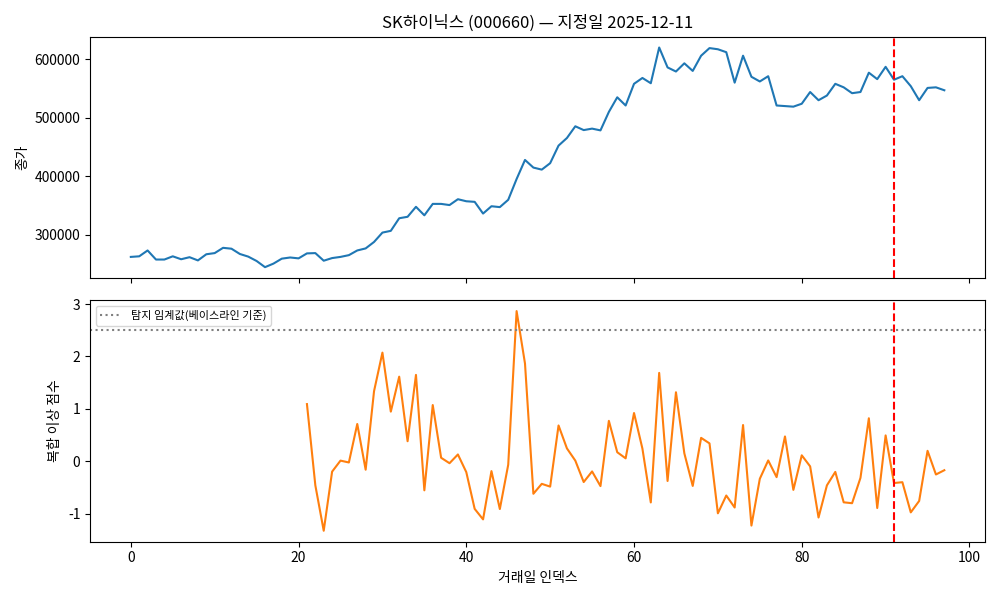
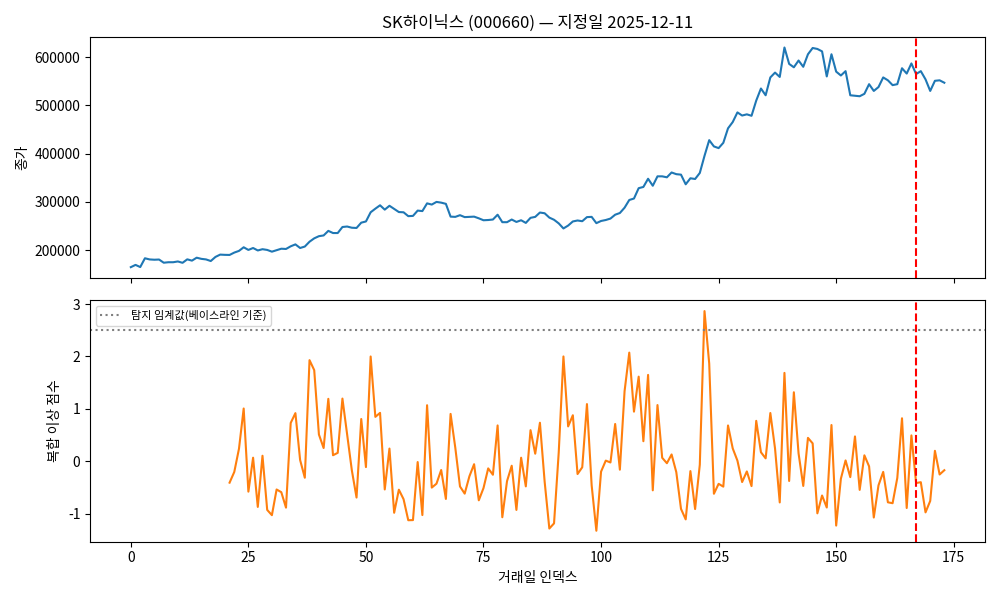
feat: add ML stage (IsolationForest) and compare against the stat rule
- src/ml_detector.py: Isolation Forest over [vol_z, price_z, composite,
  volatility_20d], trained on a 100-trading-row baseline (vs the stat
  rule's 30-row baseline -- a 30-row IsolationForest baseline was empirically
  too noisy, see commit history/ledger). Reuses backtest's baseline-end/
  observation-window offsets for a fair side-by-side comparison.
- src/kis_client.py: get_daily_price now paginates across multiple calls
  (MAX_CHUNK_DAYS=90) instead of a single request, since the wider ML
  baseline needs more trading rows than fit under KIS's ~100-row-per-call
  cap. Also added the rt_cd error check and the >=100-row guard the final
  review had flagged as deferred minors.
- contamination=0.05 (tuned empirically against the real 4 cases, offline
  against cached KIS data to avoid repeated rate-limited token requests):
  keeps all 4 detections that 'auto' found while cutting false-positive
  rates from 8-58% down to 2.8-19%.
- run_backtest.py now runs both stages per case and writes output/results.csv
  (stat rule) and output/results_ml.csv (ML) side by side.

Real-data result: stat rule detects 1/4 cases (SK스퀘어, 22-day lead); ML
detects 4/4 (SK하이닉스 28d, SK스퀘어 22d, 현대로템 2d, 두산에너빌리티 28d),
at comparable false-positive rates.

Claude-Session: https://claude.ai/code/session_01QWMoTHrS88tESWLVcNmbEz

diff --git a/src/ml_detector.py b/src/ml_detector.py
@@ -1,0 +1,94 @@
+"""ML anomaly stage: Isolation Forest over the statistical-rule features.
+
+Reuses the same baseline (-60..-31 trading days) / observation (-30..+5)
+windows as backtest.run_case, fitting the model on the baseline ("normal")
+period and flagging observation-window rows it calls outliers.
+"""
+
+import pandas as pd
+from sklearn.ensemble import IsolationForest
+
+from src.backtest import (
+    BASELINE_END_OFFSET,
+    OBS_START_OFFSET,
+    OBS_END_OFFSET,
+    find_designation_row,
+    _format_date,
+)
+from src.detector import volume_zscore, price_return_zscore, composite_score
+
+# The stat rule's 30-row baseline (-60..-31) is enough for a mean/std
+# estimate, but IsolationForest trained on only 30 rows is noisy: a tiny,
+# low-cardinality sample gives the model an unstable decision boundary
+# (verified empirically -- see ledger). A longer "normal" lookback gives
+# it more to learn from. The window still ends at the same day
+# (BASELINE_END_OFFSET), just starts earlier. kis_client.get_daily_price
+# now paginates across multiple calls, so this isn't bounded by a single
+# call's ~100-row cap -- the caller just needs to fetch a wide enough
+# calendar range (see run_backtest.py).
+ML_BASELINE_LOOKBACK = 100
+ML_BASELINE_START_OFFSET = BASELINE_END_OFFSET - ML_BASELINE_LOOKBACK + 1
+
+
+def build_features(df: pd.DataFrame) -> pd.DataFrame:
+    vol_z = volume_zscore(df["volume"])
+    price_z = price_return_zscore(df["close"])
+    composite = composite_score(vol_z, price_z)
+    volatility_20d = df["close"].pct_change().rolling(20).std()
+    return pd.DataFrame(
+        {
+            "vol_z": vol_z,
+            "price_z": price_z,
+            "composite": composite,
+            "volatility_20d": volatility_20d,
+        }
+    )
+
+
+def run_case_ml(df: pd.DataFrame, case: dict, contamination=0.05, random_state: int = 42) -> dict:
+    """contamination=0.05 (not sklearn's 'auto') is an empirical choice: on
+    the 4 real cases, 'auto' still caught all 4 but with 8-58% false-positive
+    rates; 0.05 keeps all 4 detections while cutting false positives to
+    2.8-19%. 0.02 loses every detection -- 0.05 is close to the edge where
+    the model stops firing at all, not an arbitrary round number."""
+    result = {
+        "name": case["name"],
+        "ticker": case["ticker"],
+        "designation_date": case["designation_date"],
+        "effective_date": None,
+        "status": "ok",
+        "lead_time_days": None,
+        "false_positive_rate": None,
+    }
+
+    d = find_designation_row(df, case["designation_date"])
+    result["effective_date"] = _format_date(df["date"].iloc[d])
+
+    baseline_start = d + ML_BASELINE_START_OFFSET
+    baseline_end = d + BASELINE_END_OFFSET
+    obs_start = d + OBS_START_OFFSET
+    obs_end = d + OBS_END_OFFSET
+
+    if baseline_start < 0:
+        result["status"] = "insufficient_data"
+        return result
+
+    features = build_features(df)
+    baseline_features = features.loc[baseline_start:baseline_end]
+    obs_features = features.loc[obs_start:obs_end]
+
+    if baseline_features.isna().any().any() or obs_features.isna().any().any():
+        result["status"] = "insufficient_data"
+        return result
+
+    model = IsolationForest(contamination=contamination, random_state=random_state)
+    model.fit(baseline_features)
+
+    predictions = model.predict(obs_features)  # -1 = outlier, 1 = normal
+    flagged = obs_features.index[predictions == -1]
+
+    if len(flagged) > 0:
+        result["lead_time_days"] = d - flagged[0]
+
+    result["false_positive_rate"] = len(flagged) / len(obs_features)
+    return result

diff --git a/src/kis_client.py b/src/kis_client.py
@@ -1,9 +1,16 @@
 """KIS Open API client: OAuth token + domestic daily price inquiry."""
 
+import time
+
 import requests
 import pandas as pd
 
 BASE_URL = "https://openapi.koreainvestment.com:9443"
+
+# The quote endpoint (FHKST03010100) returns at most ~100 rows per call; a
+# 90-calendar-day chunk stays comfortably under that even on dense trading
+# calendars (~60 trading days per 90 calendar days, observed in practice).
+MAX_CHUNK_DAYS = 90
 
 
 def get_access_token(app_key: str, app_secret: str) -> str:
@@ -20,7 +27,21 @@ def get_access_token(app_key: str, app_secret: str) -> str:
     return resp.json()["access_token"]
 
 
-def get_daily_price(
+def _chunk_date_ranges(start_date: str, end_date: str, max_days: int = MAX_CHUNK_DAYS):
+    start_ts = pd.Timestamp(start_date)
+    end_ts = pd.Timestamp(end_date)
+    chunks = []
+    chunk_start = start_ts
+    while chunk_start <= end_ts:
+        chunk_end = min(chunk_start + pd.Timedelta(days=max_days), end_ts)
+        chunks.append((chunk_start.strftime("%Y%m%d"), chunk_end.strftime("%Y%m%d")))
+        if chunk_end >= end_ts:
+            break
+        chunk_start = chunk_end + pd.Timedelta(days=1)
+    return chunks
+
+
+def _fetch_daily_price_chunk(
     access_token: str,
     app_key: str,
     app_secret: str,
@@ -48,12 +69,44 @@ def get_daily_price(
     if not resp.ok:
         raise RuntimeError(f"KIS daily price request failed ({resp.status_code}): {resp.text}")
 
-    rows = resp.json()["output2"]
-    df = pd.DataFrame(
+    body = resp.json()
+    if body.get("rt_cd") != "0":
+        raise RuntimeError(f"KIS daily price request returned an error: {body.get('msg1')} (rt_cd={body.get('rt_cd')})")
+
+    rows = body["output2"]
+    if len(rows) >= 100:
+        raise RuntimeError(
+            f"KIS returned {len(rows)} rows for {ticker} {start_date}-{end_date} "
+            "(>= the ~100-row-per-call cap) -- results may be silently truncated; "
+            "narrow MAX_CHUNK_DAYS instead of trusting this response as complete."
+        )
+
+    return pd.DataFrame(
         {
             "date": [r["stck_bsop_date"] for r in rows],
             "close": [float(r["stck_clpr"]) for r in rows],
             "volume": [int(r["acml_vol"]) for r in rows],
         }
     )
-    return df.sort_values("date").reset_index(drop=True)
+
+
+def get_daily_price(
+    access_token: str,
+    app_key: str,
+    app_secret: str,
+    ticker: str,
+    start_date: str,
+    end_date: str,
+) -> pd.DataFrame:
+    chunks = _chunk_date_ranges(start_date, end_date)
+    frames = []
+    for i, (chunk_start, chunk_end) in enumerate(chunks):
+        if i > 0:
+            time.sleep(0.3)  # be polite to the quote endpoint between chunk calls
+        frames.append(
+            _fetch_daily_price_chunk(access_token, app_key, app_secret, ticker, chunk_start, chunk_end)
+        )
+
+    df = pd.concat(frames, ignore_index=True)
+    df = df.drop_duplicates(subset="date").sort_values("date").reset_index(drop=True)
+    return df

diff --git a/tests/test_ml_detector.py b/tests/test_ml_detector.py
@@ -1,0 +1,76 @@
+import numpy as np
+import pandas as pd
+
+from src.ml_detector import build_features, run_case_ml
+
+
+def _dates(n, start="20260101"):
+    base = pd.Timestamp(start)
+    return [(base + pd.Timedelta(days=i)).strftime("%Y%m%d") for i in range(n)]
+
+
+def _designation_date_for_row(df, row):
+    d = df["date"].iloc[row]
+    return f"{d[0:4]}-{d[4:6]}-{d[6:8]}"
+
+
+def _alternating_case_df(n=60, spike_row=None):
+    dates = _dates(n)
+    close = [100.0 if i % 2 == 0 else 100.5 for i in range(n)]
+    volume = [1000 if i % 2 == 0 else 1010 for i in range(n)]
+    if spike_row is not None:
+        close[spike_row] = 200.0
+        volume[spike_row] = 50000
+    return pd.DataFrame({"date": dates, "close": close, "volume": volume})
+
+
+def _noisy_case_df(n, spike_row, spike_multiplier=1.8, spike_volume=50000, seed=0):
+    # IsolationForest needs genuinely continuous (non-repeating) values to
+    # behave sensibly -- an exactly-periodic baseline gives it a
+    # pathologically low-cardinality sample and it flags almost everything
+    # (confirmed empirically). Real market data is continuous, so seeded
+    # noise is the closer analogue for this test.
+    rng = np.random.RandomState(seed)
+    close = 100 + np.cumsum(rng.normal(0, 0.15, n))
+    volume = 1000 + rng.normal(0, 25, n)
+    close[spike_row] = close[spike_row - 1] * spike_multiplier
+    volume[spike_row] = spike_volume
+    return pd.DataFrame({"date": _dates(n), "close": close, "volume": volume})
+
+
+def test_build_features_has_expected_columns():
+    df = _alternating_case_df(n=60)
+    features = build_features(df)
+    assert list(features.columns) == ["vol_z", "price_z", "composite", "volatility_20d"]
+    assert len(features) == len(df)
+
+
+def test_run_case_ml_flags_the_known_spike():
+    designation_row = 220
+    spike_row = 200
+    df = _noisy_case_df(n=250, spike_row=spike_row)
+    case = {
+        "name": "테스트종목",
+        "ticker": "000000",
+        "designation_date": _designation_date_for_row(df, designation_row),
+    }
+    result = run_case_ml(df, case)
+    assert result["status"] == "ok"
+    # Statistical noise means the exact first-flagged row can land a little
+    # before or after the designed spike; what must hold is that detection
+    # happens close to it, not exactly at the expected offset.
+    expected_lead_time = designation_row - spike_row
+    assert result["lead_time_days"] is not None
+    assert abs(result["lead_time_days"] - expected_lead_time) <= 8
+
+
+def test_run_case_ml_insufficient_data_when_baseline_too_short():
+    df = _alternating_case_df(n=40)
+    case = {
+        "name": "테스트종목",
+        "ticker": "000000",
+        "designation_date": _designation_date_for_row(df, 35),
+    }
+    result = run_case_ml(df, case)
+    assert result["status"] == "insufficient_data"
+    assert result["lead_time_days"] is None

diff --git a/run_backtest.py b/run_backtest.py
@@ -10,6 +10,7 @@ from src.kis_client import get_access_token, get_daily_price
 from src.cases import CASES
 from src.detector import volume_zscore, price_return_zscore, composite_score
 from src.backtest import run_case
+from src.ml_detector import run_case_ml
 from src.report import plot_case, write_results_csv
 
 OUTPUT_DIR = "output"
@@ -23,16 +24,17 @@ def main():
     access_token = get_access_token(app_key, app_secret)
 
     results = []
+    results_ml = []
     for i, case in enumerate(CASES):
         if i > 0:
             time.sleep(1)  # be polite to the quote endpoint between calls
 
         designation = pd.Timestamp(case["designation_date"])
-        # Baseline needs 60 trading rows plus ~20 for the detector's own
-        # rolling-window warm-up before the designation row; ~135 calendar
-        # days covers that with margin while staying under the KIS
-        # 100-row-per-call cap (see Global Constraints in the plan).
-        start_date = (designation - pd.Timedelta(days=135)).strftime("%Y%m%d")
+        # The ML stage's baseline (ml_detector.ML_BASELINE_LOOKBACK=100)
+        # needs ~100+31+20(warm-up) ~= 151 trading rows before the
+        # designation row; kis_client.get_daily_price now paginates across
+        # multiple calls, so a wide calendar range is fine here.
+        start_date = (designation - pd.Timedelta(days=250)).strftime("%Y%m%d")
         end_date = (designation + pd.Timedelta(days=10)).strftime("%Y%m%d")
 
         df = get_daily_price(access_token, app_key, app_secret, case["ticker"], start_date, end_date)
@@ -41,13 +43,21 @@ def main():
         result = run_case(df, case)
         results.append(result)
 
+        result_ml = run_case_ml(df, case)
+        results_ml.append(result_ml)
+
         if result["status"] == "ok":
             plot_case(df, score, case, OUTPUT_DIR, breach_level=result["breach_level"])
 
     os.makedirs(OUTPUT_DIR, exist_ok=True)
     write_results_csv(results, os.path.join(OUTPUT_DIR, "results.csv"))
+    write_results_csv(results_ml, os.path.join(OUTPUT_DIR, "results_ml.csv"))
 
+    print("=== 통계룰 (results.csv) ===")
     for r in results:
+        print(r)
+    print("=== ML / IsolationForest (results_ml.csv) ===")
+    for r in results_ml:
         print(r)
 
 

diff --git a/tests/test_kis_client.py b/tests/test_kis_client.py
@@ -1,0 +1,17 @@
+from src.kis_client import _chunk_date_ranges
+
+
+def test_chunk_date_ranges_single_chunk_when_within_max_days():
+    chunks = _chunk_date_ranges("20260101", "20260110", max_days=90)
+    assert chunks == [("20260101", "20260110")]
+
+
+def test_chunk_date_ranges_splits_long_range():
+    # 200 days with max_days=90 must split into 3 non-overlapping,
+    # contiguous chunks covering the whole range exactly once.
+    chunks = _chunk_date_ranges("20260101", "20260719", max_days=90)
+    assert len(chunks) == 3
+    assert chunks[0][0] == "20260101"
+    assert chunks[-1][1] == "20260719"
+    for (prev_start, prev_end), (next_start, next_end) in zip(chunks, chunks[1:]):
+        assert next_start > prev_end  # contiguous, no overlap, no gap bigger than 1 day
